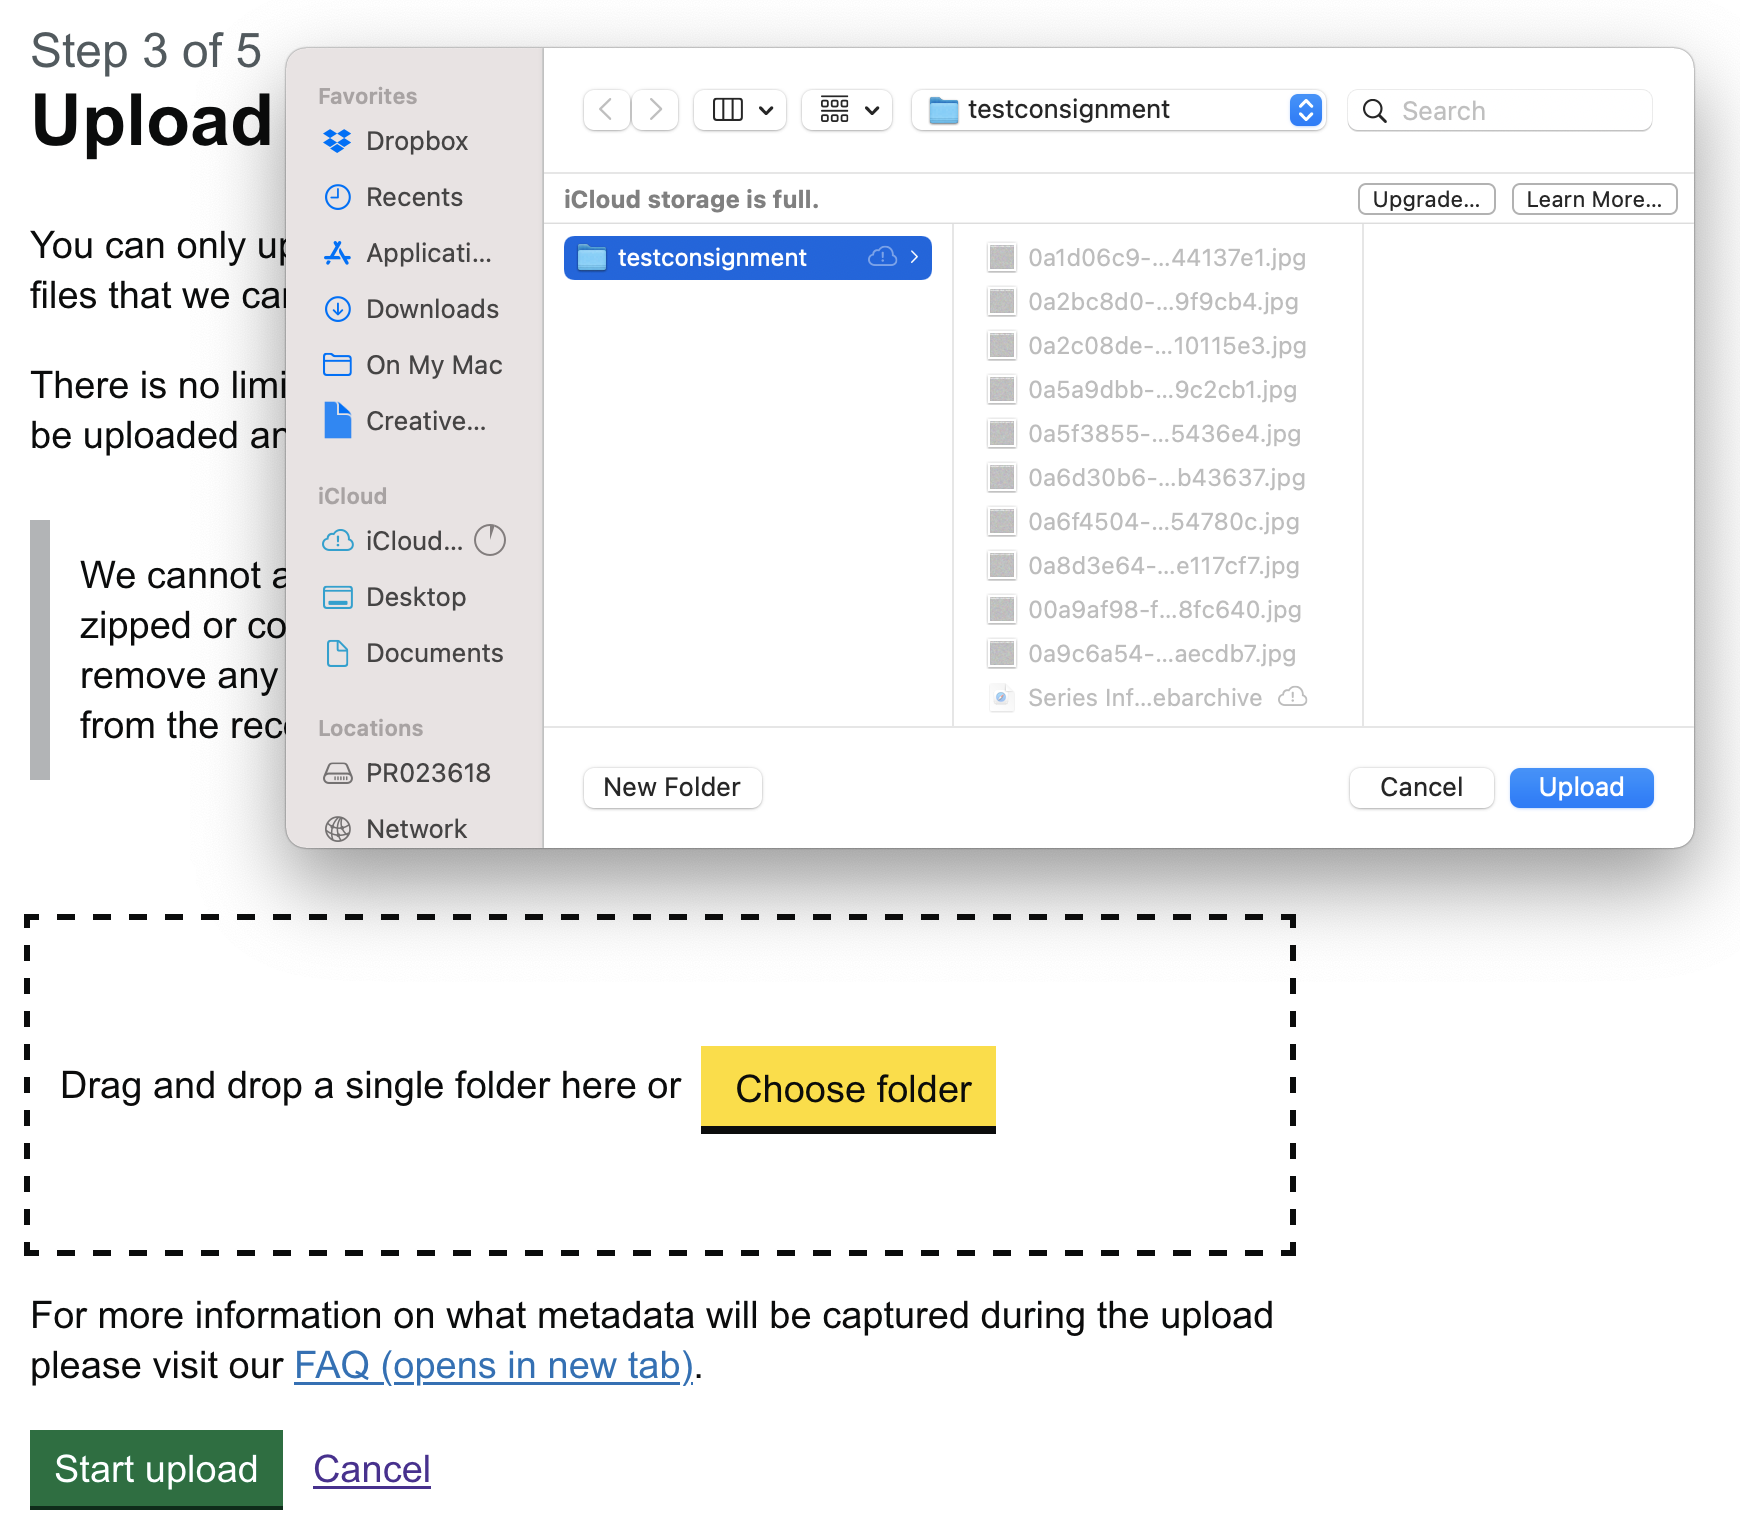
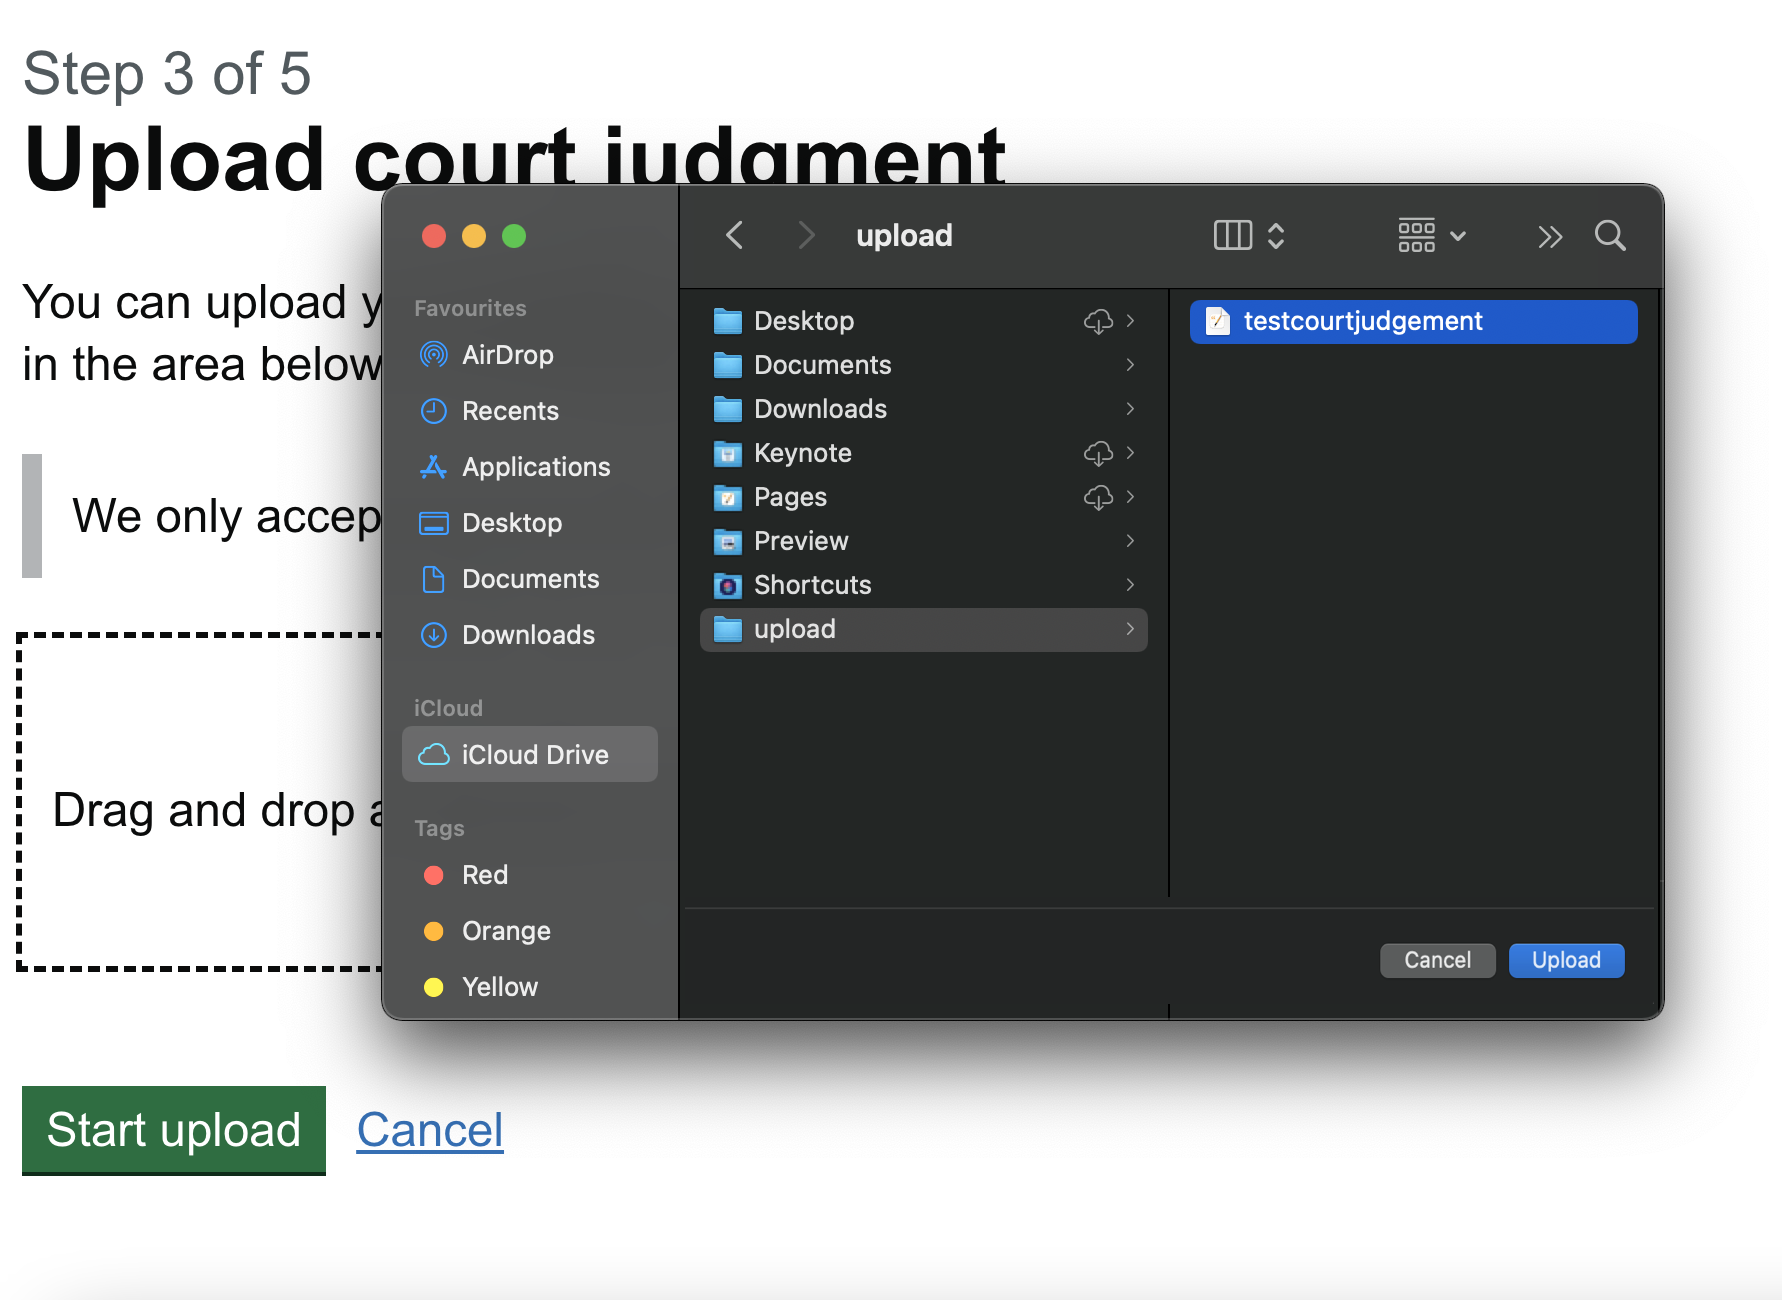
update select folder pic & edit TA text

diff --git a/interactive_court_judgment/app/views/transfer-agreement.html b/interactive_court_judgment/app/views/transfer-agreement.html
@@ -20,11 +20,11 @@
           <span class="govuk-warning-text__icon" aria-hidden="true">!</span>
           <strong class="govuk-warning-text__text">
             <span class="govuk-warning-text__assistive">Warning</span>
-            We cannot publish the court judgment without this information: Name(s) of judge(s), name of parties, court, judgment date, neutral citation, case reference(s).
+            We cannot publish the court judgment without this: Name(s) of judge(s), name of parties, court, judgment date, neutral citation, case reference(s).
           </strong>
         </div>
 
-        <p class="govuk-body" style="margin-bottom: 0px">In addition, if your court judgment has supplementary material then email this to <a href="tdr@nationalarchives.gov.uk">tdr@nationalarchives.gov.uk</a></p>
+        <p class="govuk-body" style="margin-bottom: 0px">In case the court judgment you want to transfer has supplementary material: upload the court judgment using this service and email the supplementary material to <a href="tdr@nationalarchives.gov.uk">tdr@nationalarchives.gov.uk</a></p>
         <br>
         <div class="govuk-form-group">
           <fieldset class="govuk-fieldset" aria-describedby="published-hint">
